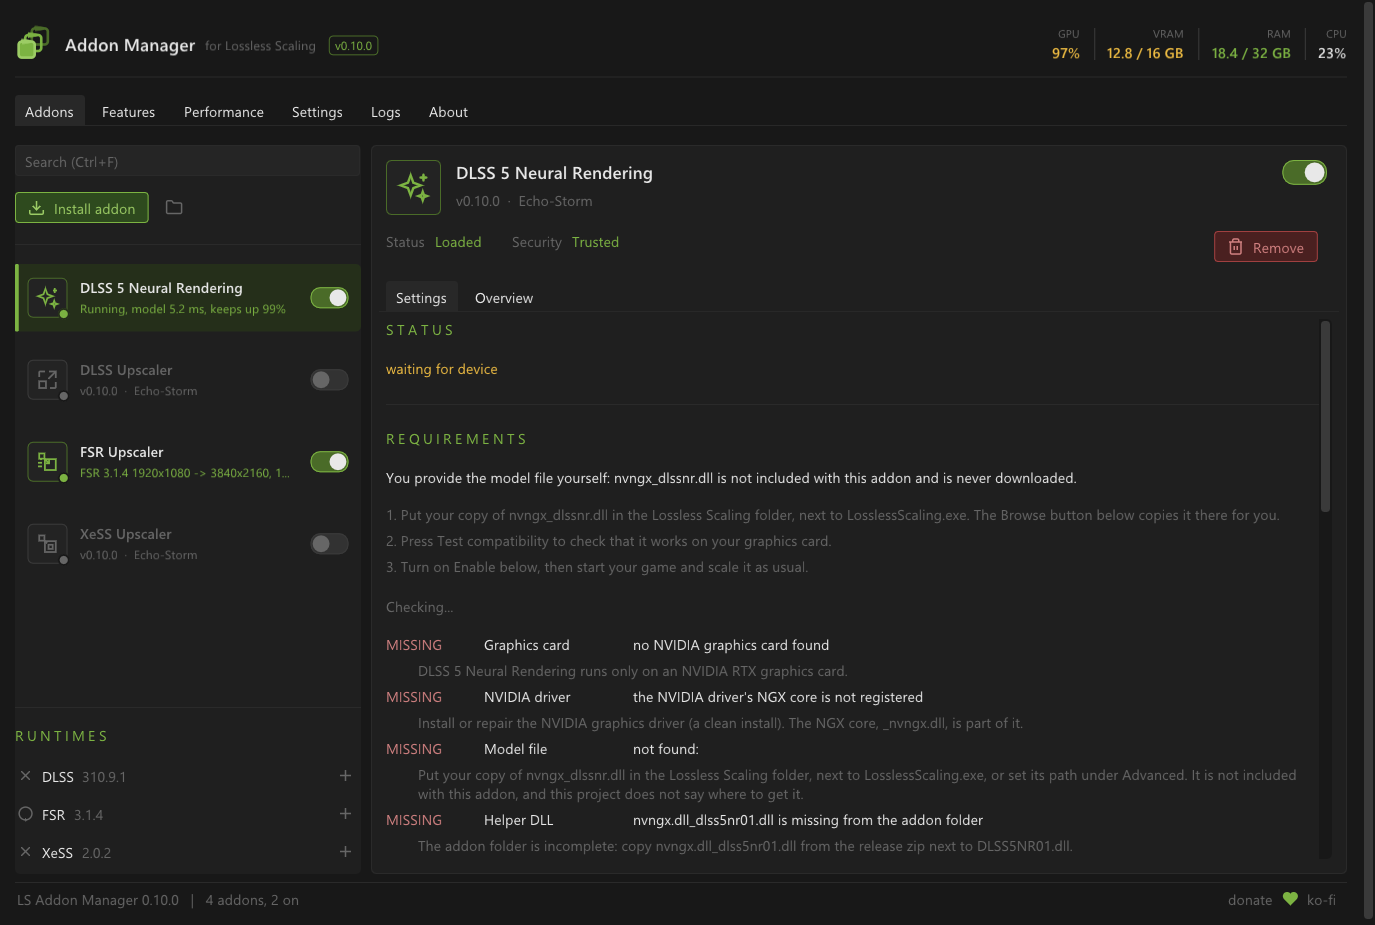
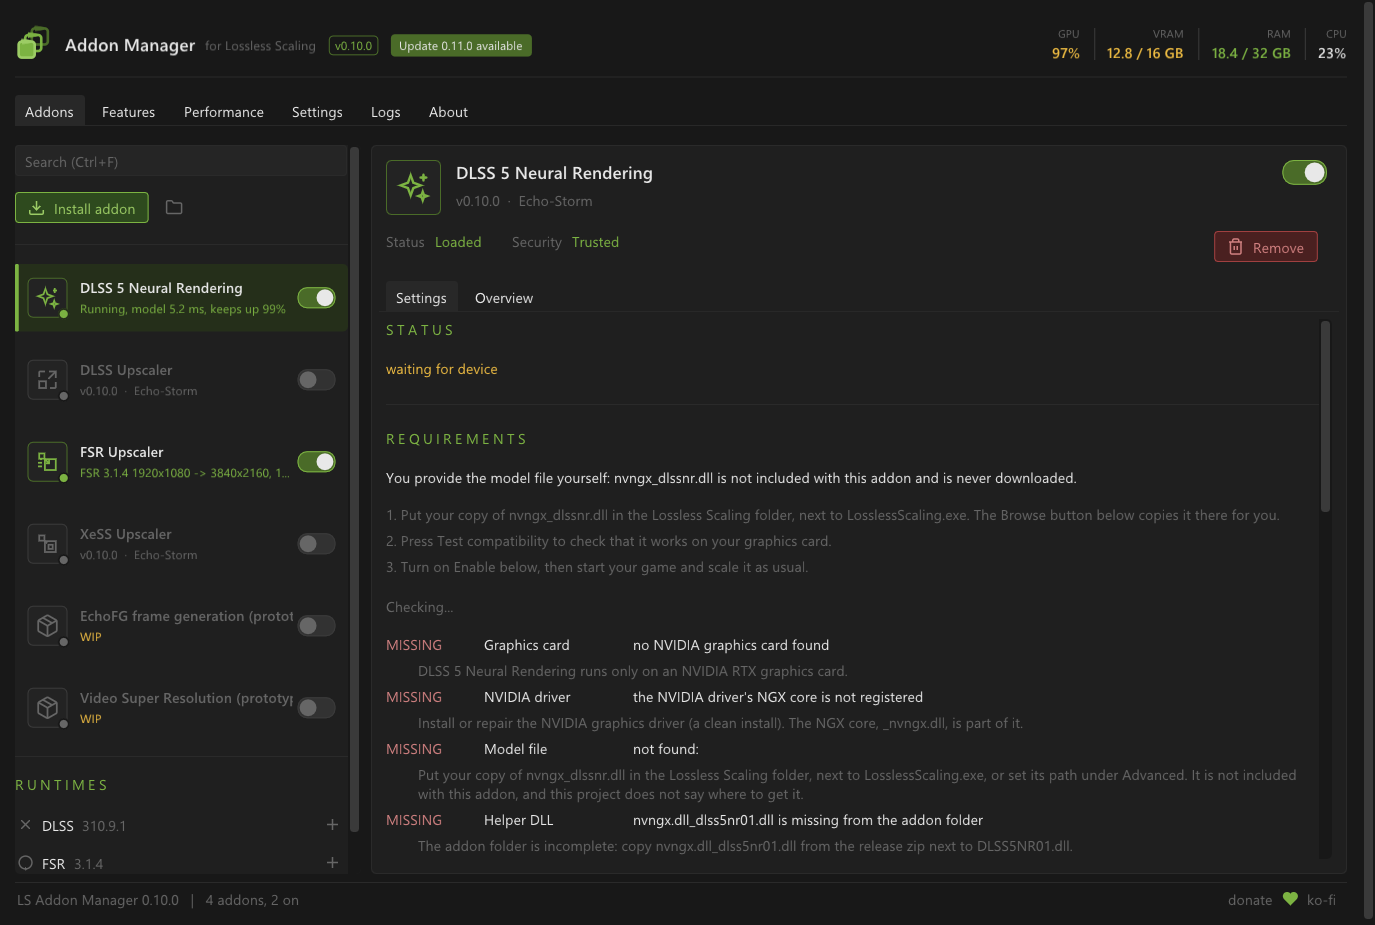
README main picture: the update badge and the work-in-progress addons

diff --git a/manager/tools/ui_preview.cpp b/manager/tools/ui_preview.cpp
@@ -157,7 +157,7 @@ int main(int argc, char** argv) {
     float model = 0.5f, sharpen = 0.0f, vib = 1.2f, blend = 0.72f, gamma = 1.0f; int passes = 1, grain = 2; bool sw = true, sw2 = false; int sel = 0;
     const float dModel = 0.35f, dSharpen = 0.0f, dVib = 0.0f, dBlend = 1.0f, dGamma = 1.0f; const int dPasses = 1, dGrain = 1;
     if (!clean) widgets::ToastShow("Installed 'Cool Addon' (switched off). Turn it on with its switch.", widgets::ToastType::Success, 1000.0f);
-    std::string status = window::StatusCounts(4, 2);
+    std::string status = window::StatusCounts(getenv("EAM_PREVIEW_WIP") ? 6 : 4, 2);
 
     // live data for the cards and the Performance tab: 20 s of a game near 60 fps with a few hitches, a model at ~6.6 ms, a GPU at its cap
     {
